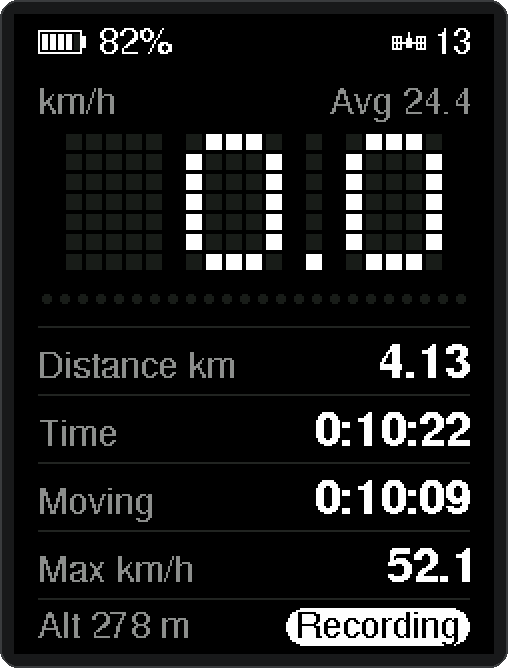
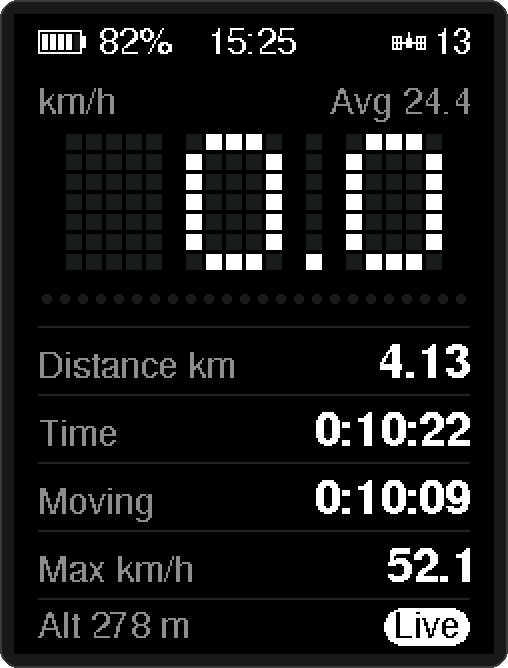
clock added

Changed region(s): [[0.561, 0.8982, 0.9154, 0.988], [0.4134, 0.0299, 0.5906, 0.0898]]

diff --git a/README.md b/README.md
@@ -31,11 +31,11 @@ The trip starts with the first wheel pulse. GPS recording begins when the firmwa
 
 The portrait layout keeps current speed largest, with supporting information underneath:
 
-1. **Status bar:** battery level on the left; a satellite icon with the satellite count, or “Searching” until there is a fix, on the right.
+1. **Status bar:** battery level on the left; local time (from GPS and `timezone_offset_min`) centred; a satellite icon with the satellite count, or “Searching” until there is a fix, on the right.
 2. **Dot-matrix speed:** km/h or mph (from `units`). The line above it shows the unit and **Avg**; it also carries prompts such as “Hold for new ride” and “Press to allow”.
 3. **24-dot gauge:** normally speed, at 2 km/h per dot, so it is full from about 47 km/h. It also shows hold-to-save, phone-confirm and download progress.
 4. **Ride stats:** Distance, Time, Moving and Max. The distance and speed units sit in the labels and follow `units`. Distance switches to one decimal from 100.
-5. **Footer:** altitude as **Alt** (m or ft, `--` without a fix) and a status such as `Recording`, `Phone` or `No card`.
+5. **Footer:** altitude as **Alt** (m or ft, `--` without a fix) and a status such as `Live`, `Phone` or `No card`.
 
 **Time** is elapsed time since the trip began, including stops while powered on. Time spent powered off is not added after recovery. **Moving** is estimated from wheel pulses using `stopped_ms` (default three seconds); **Avg** divides wheel distance by that estimated moving time.
 
@@ -54,6 +54,8 @@ The top left shows a five-bar battery icon and the charge as a percentage. The p
 
 ### GPS status
 
+With a live fix and GPS time, the centre of the status bar shows the local clock as `HH:MM` using `timezone_offset_min`.
+
 | Top right | Meaning |
 | --- | --- |
 | <img src="docs/screens/status-searching.png" width="250" alt="Status bar reading Searching with a hollow ring"> | No usable fix yet, or the GPS has gone quiet for 2 seconds. Wheel stats keep working; nothing is recorded. |
@@ -68,7 +70,7 @@ Only one status shows at a time, in this order of priority:
 | --- | --- |
 | <img src="docs/screens/footer-no-card.png" width="250" alt="Footer with an exclamation badge and No card"> | No microSD card, or the card stopped responding. Stats live in memory only. |
 | <img src="docs/screens/footer-phone.png" width="250" alt="Footer reading Phone with a filled dot"> | A phone is connected and allowed. Recording carries on in the background. |
-| <img src="docs/screens/footer-recording.png" width="250" alt="Footer with Recording in a white pill"> | The ride has started and the GPS has position and time, so points are going into `CURRENT.GPX`. |
+| <img src="docs/screens/footer-recording.png" width="250" alt="Footer with Live in a white pill"> | The ride has started and the GPS has position and time, so points are going into `CURRENT.GPX`. |
 | <img src="docs/screens/footer-idle.png" width="250" alt="Footer with altitude only"> | Nothing to report: no wheel pulse yet, or no fix. |
 
 ## Animations
@@ -317,7 +319,7 @@ Ride settings live in **`CONFIG.TXT`** on the microSD card root. On first boot w
 | Key | Default | Notes |
 | --- | --- | --- |
 | `wheel_circ_mm` | `2155` | Measured rollout in mm (700 × 32C starting value). Range 1000–3000. |
-| `timezone_offset_min` | `0` | Minutes from UTC for archive filenames only. GPX timestamps stay UTC. |
+| `timezone_offset_min` | `0` | Minutes from UTC for the header clock and archive filenames. GPX timestamps stay UTC. |
 | `backlight` | `bright` | Boot level: `bright`, `dim`, or `off`. |
 | `ble_name` | `OBJECT-001` | BLE advertise name, 1–20 printable characters, no spaces. |
 | `units` | `metric` | `metric` or `imperial` (display only; trip storage stays metric). |
